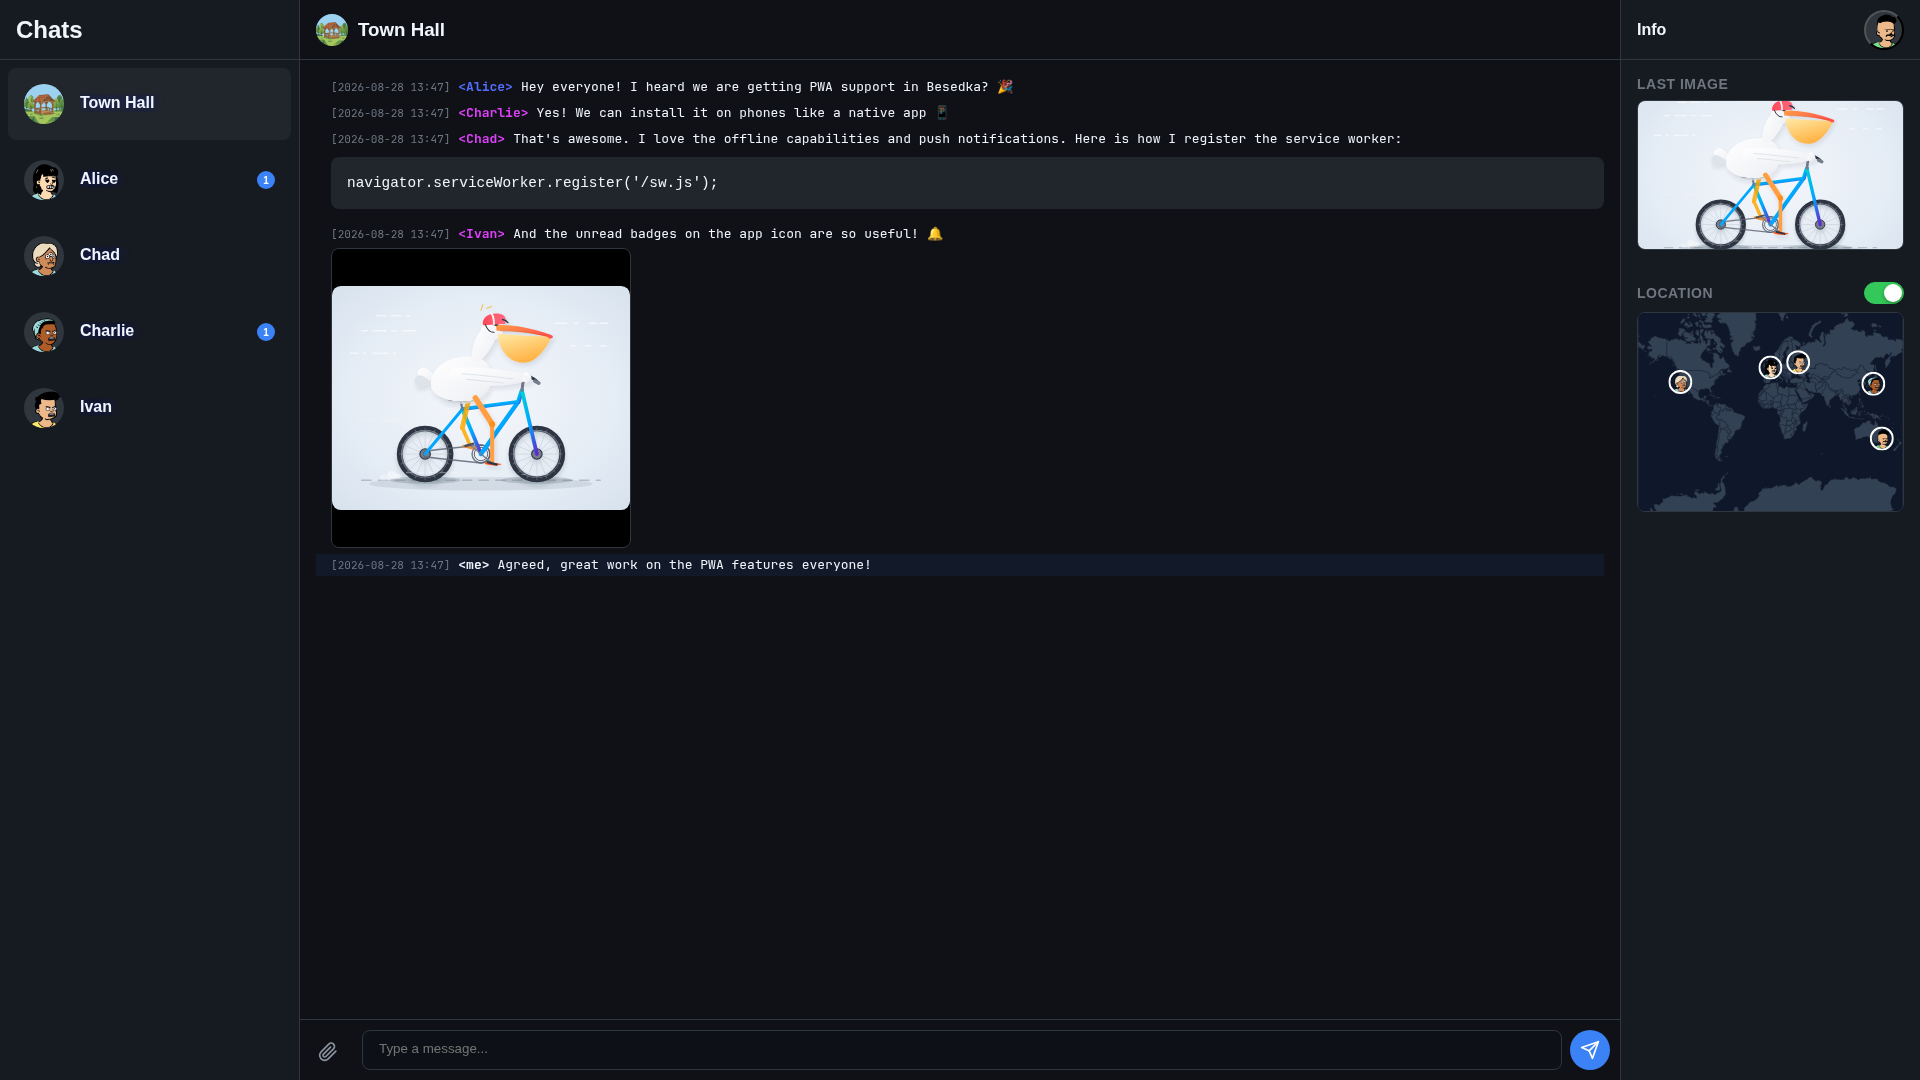
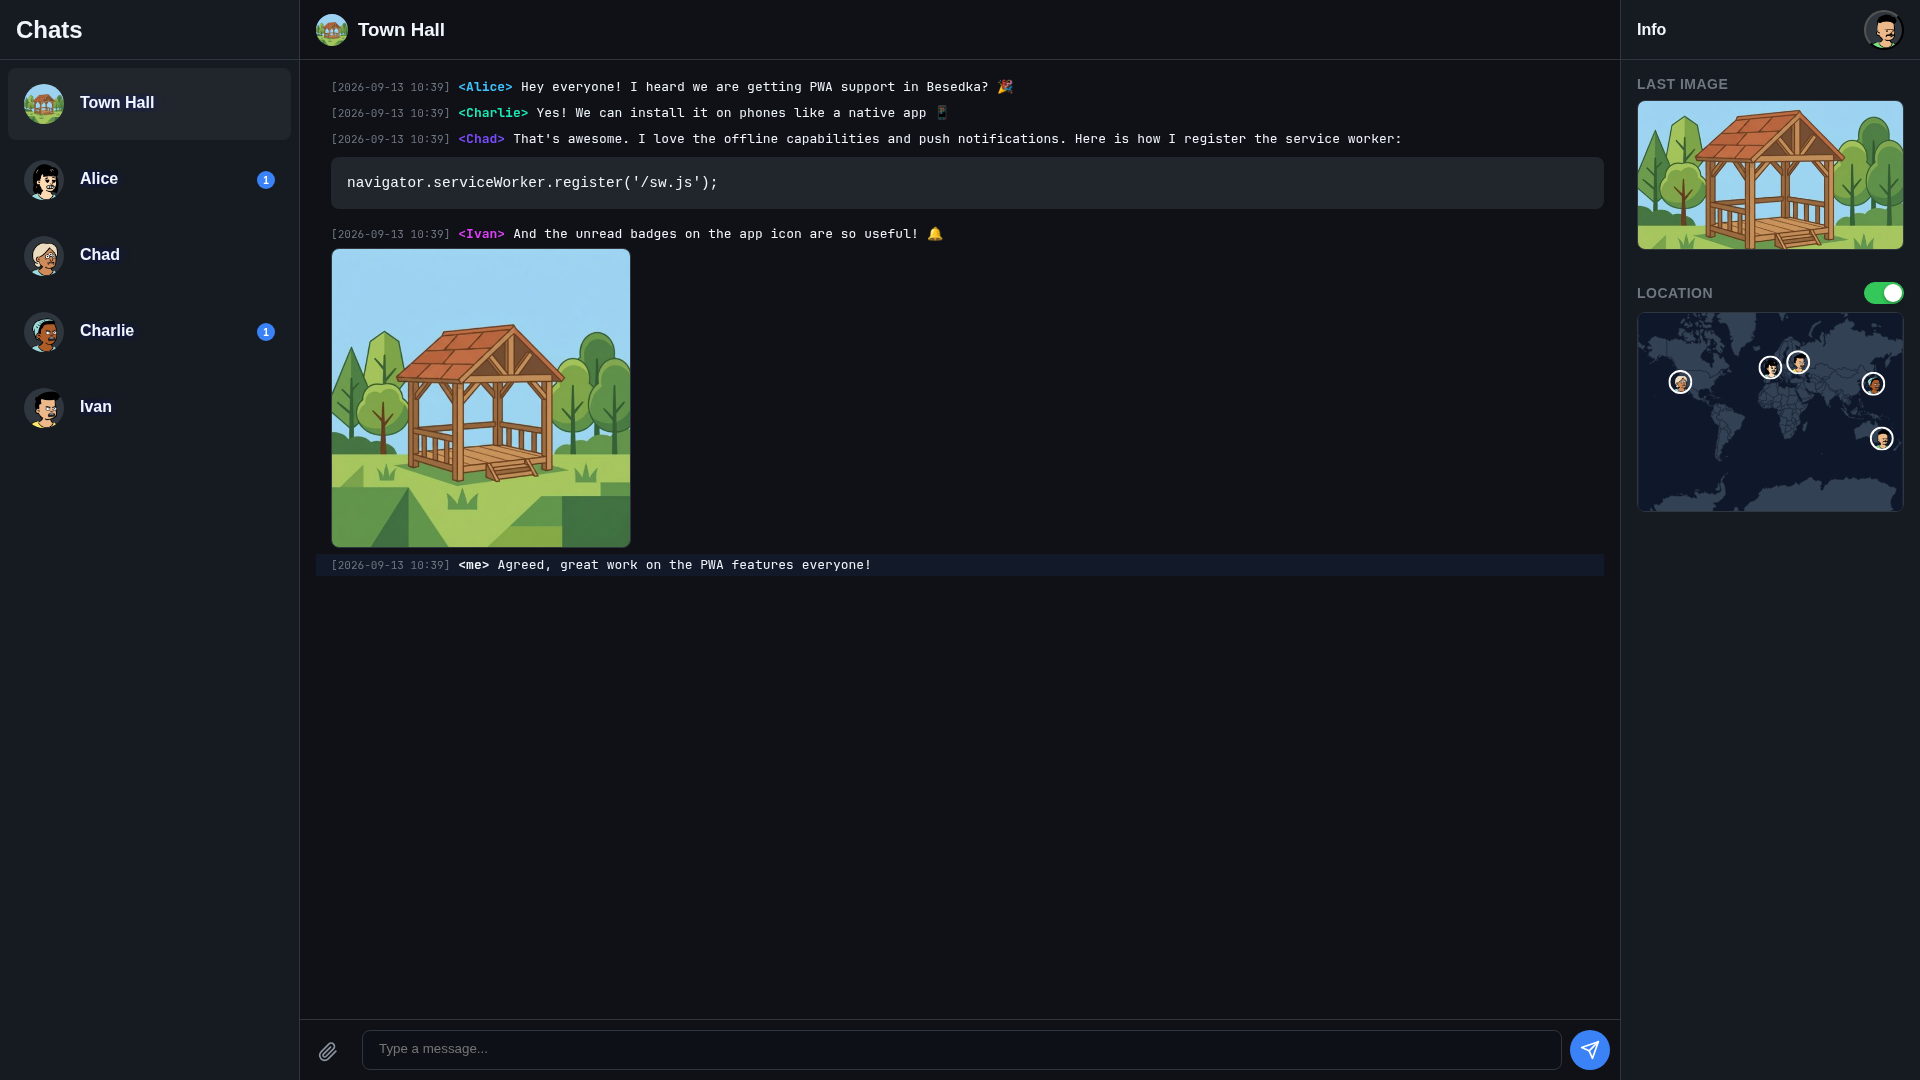
test(e2e): update screenshot test to attach raster image besedka.png

Changed region(s): [[0.1562, 0.2139, 0.3438, 0.5194], [0.8438, 0.0917, 1.0, 0.2444], [0.25, 0.0917, 0.2812, 0.1222]]

diff --git a/e2e/screenshots_test.go b/e2e/screenshots_test.go
@@ -147,7 +147,7 @@ func TestScreenshots(t *testing.T) {
 		time.Sleep(300 * time.Millisecond)
 
 		if u == "ivan" {
-			err = page.Locator("#file-input").SetInputFiles([]string{"../static/pelican-gemini-3.5.flash.svg"})
+			err = page.Locator("#file-input").SetInputFiles([]string{"../static/besedka.png"})
 			require.NoError(t, err)
 			err = page.Locator(".attach-indicator").WaitFor(playwright.LocatorWaitForOptions{
 				State: playwright.WaitForSelectorStateVisible,
